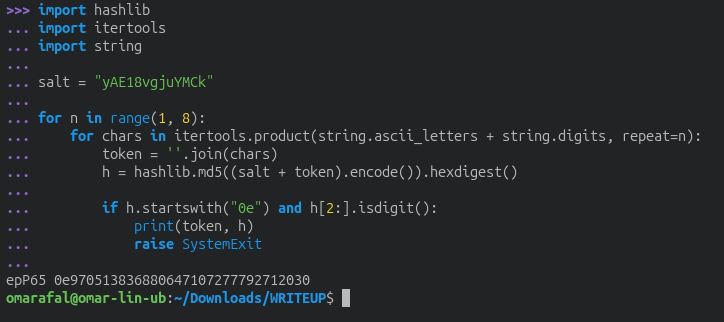
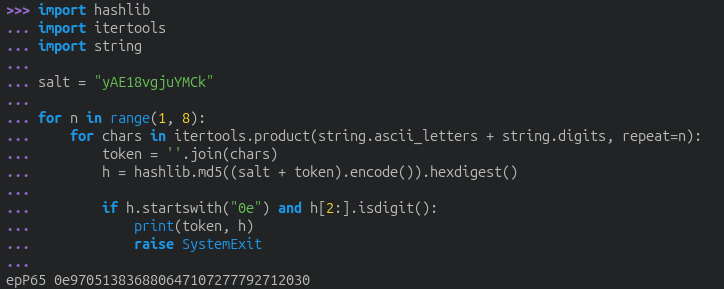
Quartz sync: Aug 11, 2026, 7:50 PM

diff --git a/content/fcis-phpSeries4.md b/content/fcis-phpSeries4.md
@@ -1,7 +1,7 @@
 ---
 title: Ain Shams CTF - PHP series 4
 draft: false
-date: 2026-08-09
+date: 2026-08-11
 ---
 This challenge was a part of "Cyber CUP Ain Shams CTF" that was held for 24 hours on **08/08/2026**.
 # Challenge Description
@@ -16,13 +16,13 @@ Once the challenge launched, I was able to see the following web page:
 
 ![[Pasted image 20260810042053.png]]
 
-A link that redirects to the page's source code, that's in php, and a field to enter some sort of a token.
+A link that redirects to the page's source code, that's in PHP, and a field to enter some sort of a token.
 
 I just clicked directly on the link where I was presented with:
 
 ![[Pasted image 20260810042038.png]]
 
-The php code basically takes my input `receivedToken`, passes it to `isTokenValid` alongside the existing list of hashes `admin_hashes` and the global salt `salt` that gets appended to my input before it gets hashed using `md5`.\
+The PHP code basically takes my input `receivedToken`, passes it to `isTokenValid` alongside the existing list of hashes `admin_hashes` and the global salt `salt` that gets appended to my input before it gets hashed using `md5`.\
 This generated hash is then compared to the list of hashes using `in_array` to check if my hash exists in the list.
 
 If my hash does exist, we get the flag.
@@ -30,21 +30,26 @@ If my hash does exist, we get the flag.
 The first thing that popped in my mind was I had to somehow find some input that when appended to the salt would cause a hash collision. I remembered that `md5` is known to be prone to hash collisions.
 
 So I went to google and searched for "php md5 hash collisions" and found the following:
-https://security.stackexchange.com/questions/261975/do-we-know-a-md5-collision-exploiting-php-loose-type-comparision-0123e2-123e
-https://security.stackexchange.com/questions/261975/do-we-know-a-md5-collision-exploiting-php-loose-type-comparision-0123e2-123e
+https://security.stackexchange.com/questions/261975/do-we-know-a-md5-collision-exploiting-PHP-loose-type-comparision-0123e2-123e
+https://mojoauth.com/hashing/md5-in-php#advantages-and-disadvantages-of-md5
 
-Basically in php, there's something called "magic hashes". These hashes are generated from hashing algorithms but are interpreted as something else by php. This would be especially useful for us here when loose comparison is involved which is exactly what happens with `in_array`.
+Basically in PHP, there's something called "magic hashes". These hashes are generated from hashing algorithms but are interpreted as something else by PHP. This would be especially useful for us here when loose comparison is involved which is exactly what happens with `in_array`.
 
-In our case, if there's a hash that begins with `0e` followed by a number, and loose comparison is used, php would treat that hash as a scientific-notation number.
+In our case, if there's a hash that begins with `0e` followed by a number, and loose comparison is used, PHP would treat that hash as a scientific-notation number.
 
 Example: `0e45646` would be interpreted as `0 x 10^45646` which results in zero.
 So no matter what number exists after `0e`, it would result in `0`.
 
-How is this useful to us? Because in the `admin_hashes` list, there is indeed a hash that begins with `0e` followed by a number.
+How is this useful to us? Because in the `admin_hashes` list, there is indeed a hash that begins with `0e` followed by a number. Both my input and the existing hash in the list would get interpreted by PHP as zeroes so when they get compared, the result would be that they are equal (both are zero).
 
-So my next goal would be to find the input that would give me this kind of hash.
+So my next goal would be to find the input (when added to the `salt`) that would give me the kind of hash that I'm looking for.
 
+Nothing came to my mind except brute-forcing my way to the input, I'm not aware of any other (more efficient) method.
 
 ![[Pasted image 20260810042108.png]]
+
+I simply iterated over a growing set of characters and hashed them using `md5` alongside the hardcoded `salt`  until one of them gave me the criteria that I explained above that I was looking for.
+
+It found `esP65` and when I provided it to the input on the web page, BOOM, it spit out the flag.
 
 ![[Pasted image 20260810042114.png]]
